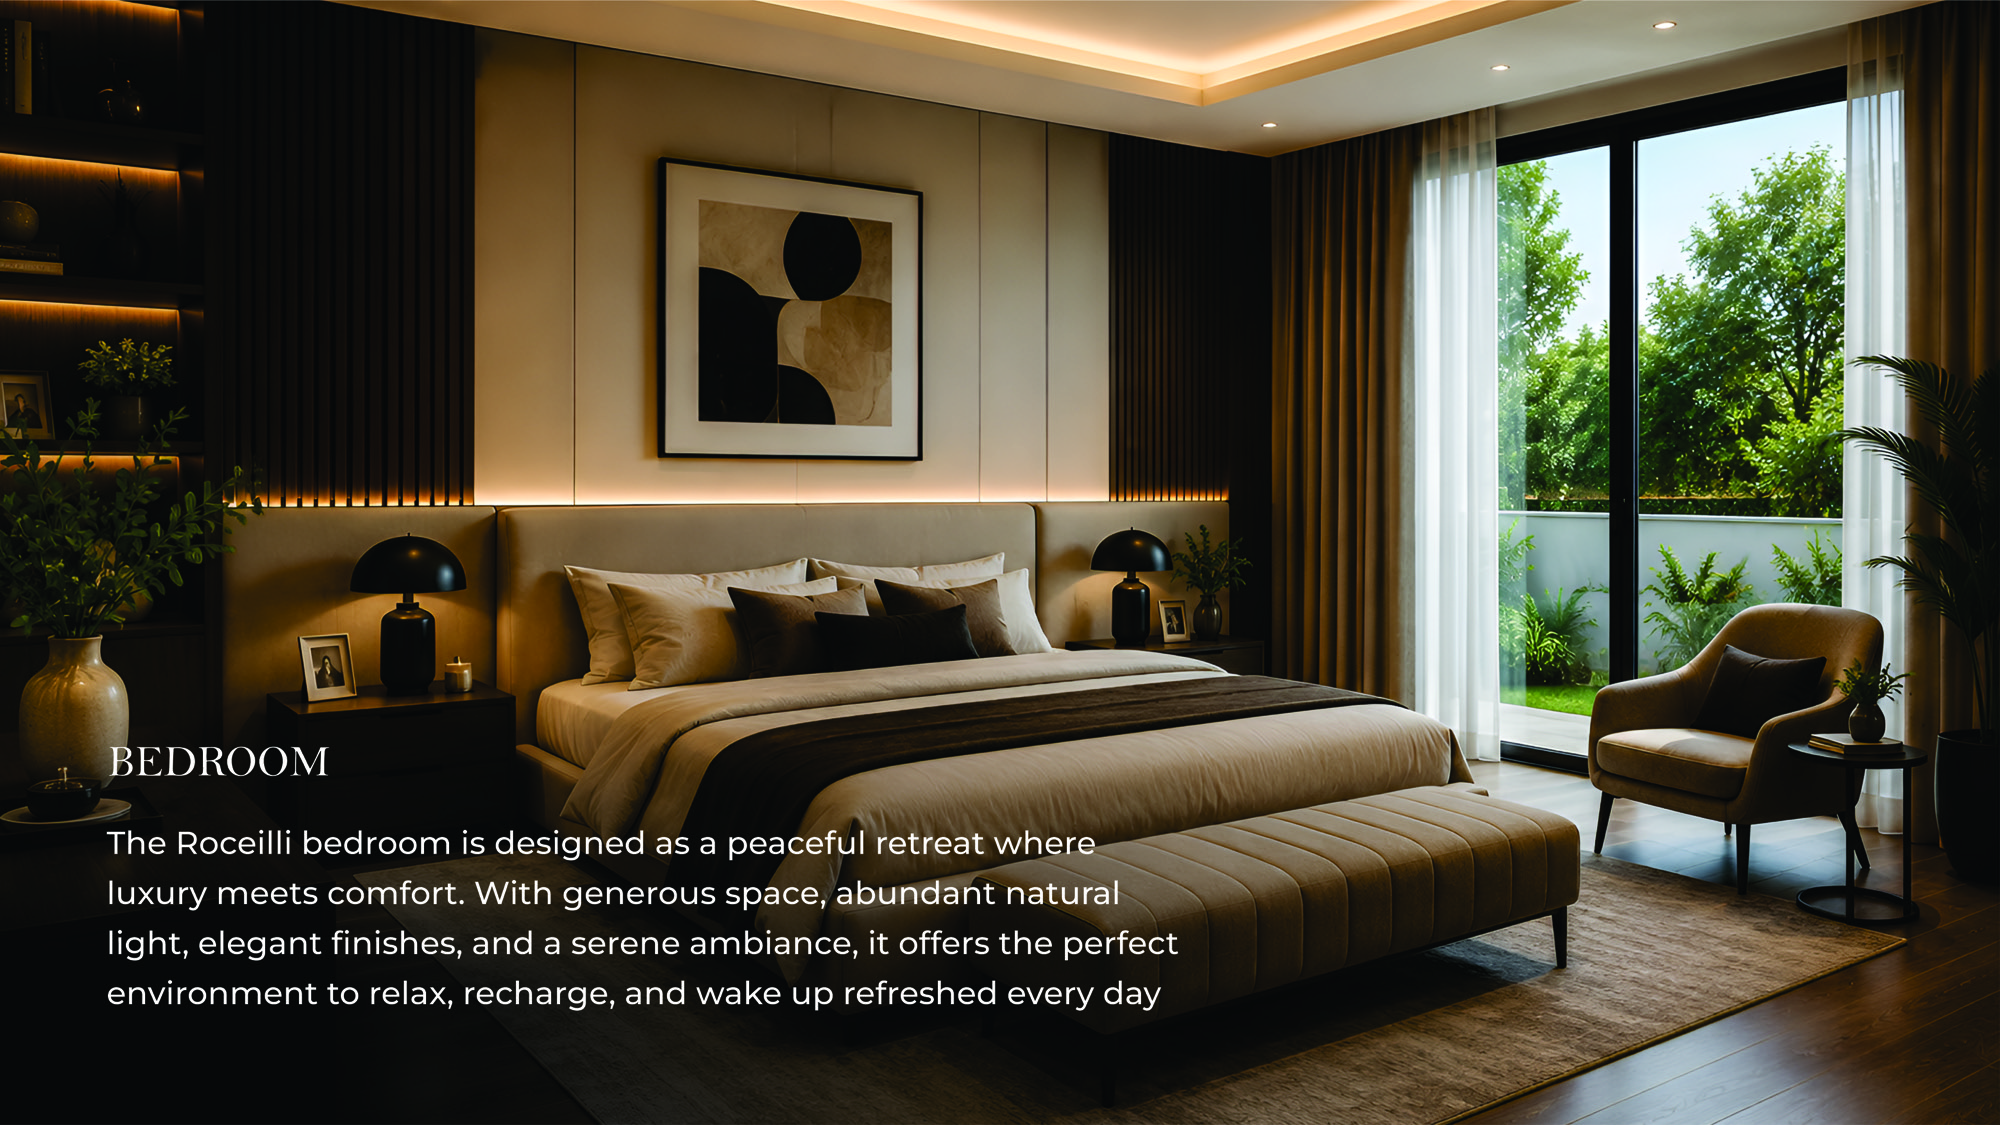
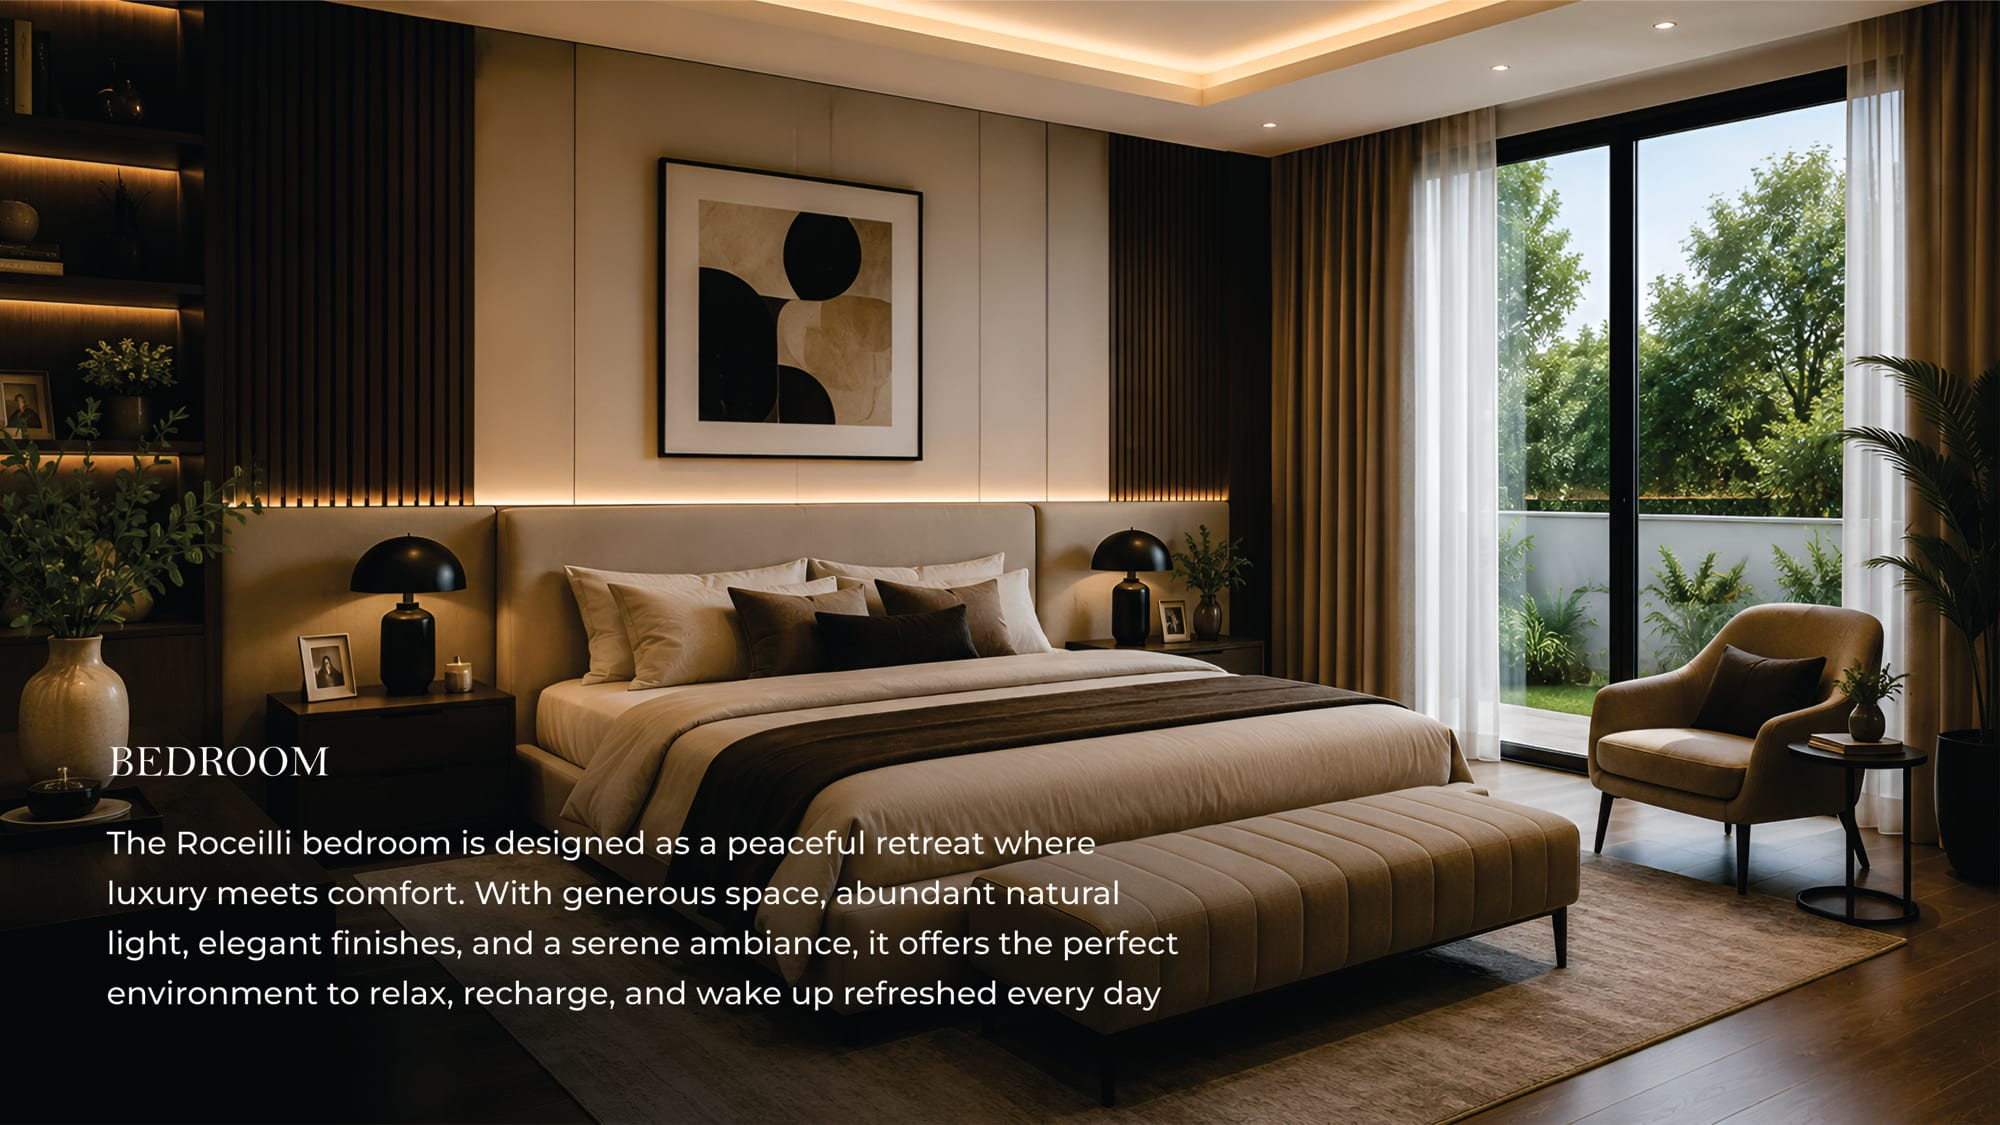
feat: added assets

diff --git a/components/layout/Header.tsx b/components/layout/Header.tsx
@@ -1,6 +1,7 @@
 'use client';
 
 import Link from 'next/link';
+import Image from 'next/image';
 import { useEffect, useState } from 'react';
 import { AnimatePresence, motion } from 'framer-motion';
 import { navigation, isNavGroup } from '@/data/navigation';
@@ -38,17 +39,32 @@ export default function Header() {
       )}
     >
       <div className="mx-auto flex h-20 max-w-[1400px] items-center justify-between px-6 lg:px-12">
-        <Link href="/" className="font-display text-xl tracking-wide">
-          <span className={dark ? 'text-white' : 'text-ink-warm'}>
-            Beaverstone
-          </span>
-          <span
-            className={cn(
-              'ml-2 align-middle font-sans text-[10px] font-medium tracking-[0.3em]',
-              dark ? 'text-mist' : 'text-body'
-            )}
-          >
-            HOLDINGS
+        <Link href="/" className="flex items-center gap-3">
+          {/* Decorative: the wordmark beside it already names the company. */}
+          <Image
+            src={
+              dark
+                ? '/logo/beaverstone-mark-white.png'
+                : '/logo/beaverstone-mark-navy.png'
+            }
+            alt=""
+            width={86}
+            height={32}
+            priority
+            className="h-8 w-auto"
+          />
+          <span className="font-display text-xl tracking-wide">
+            <span className={dark ? 'text-white' : 'text-ink-warm'}>
+              Beaverstone
+            </span>
+            <span
+              className={cn(
+                'ml-2 align-middle font-sans text-[10px] font-medium tracking-[0.3em]',
+                dark ? 'text-mist' : 'text-body'
+              )}
+            >
+              HOLDINGS
+            </span>
           </span>
         </Link>
 

diff --git a/components/layout/Footer.tsx b/components/layout/Footer.tsx
@@ -1,4 +1,5 @@
 import Link from 'next/link';
+import Image from 'next/image';
 import SocialLinks from './SocialLinks';
 import MarqueeText from './MarqueeText';
 import { navigation, isNavGroup } from '@/data/navigation';
@@ -62,11 +63,14 @@ export default function Footer() {
       {/* Main columns */}
       <div className="mx-auto grid max-w-[1400px] gap-12 px-6 py-16 lg:grid-cols-[1.3fr_1.4fr_1fr_1.1fr] lg:px-12">
         <div>
-          <Link href="/" className="font-display text-2xl text-white">
-            Beaverstone
-            <span className="ml-2 align-middle font-sans text-[10px] font-medium tracking-[0.3em] text-mist">
-              HOLDINGS
-            </span>
+          <Link href="/" className="inline-block">
+            <Image
+              src="/logo/beaverstone-white.png"
+              alt="Beaverstone Holdings"
+              width={190}
+              height={91}
+              className="h-auto w-[190px]"
+            />
           </Link>
           <p className="mt-5 max-w-xs text-sm leading-relaxed">
             A luxury real estate group creating exceptional living spaces across

diff --git a/next.config.ts b/next.config.ts
@@ -2,6 +2,7 @@ import type { NextConfig } from 'next';
 
 const nextConfig: NextConfig = {
   images: {
+    formats: ['image/avif', 'image/webp'],
     remotePatterns: [
       {
         protocol: 'https',
